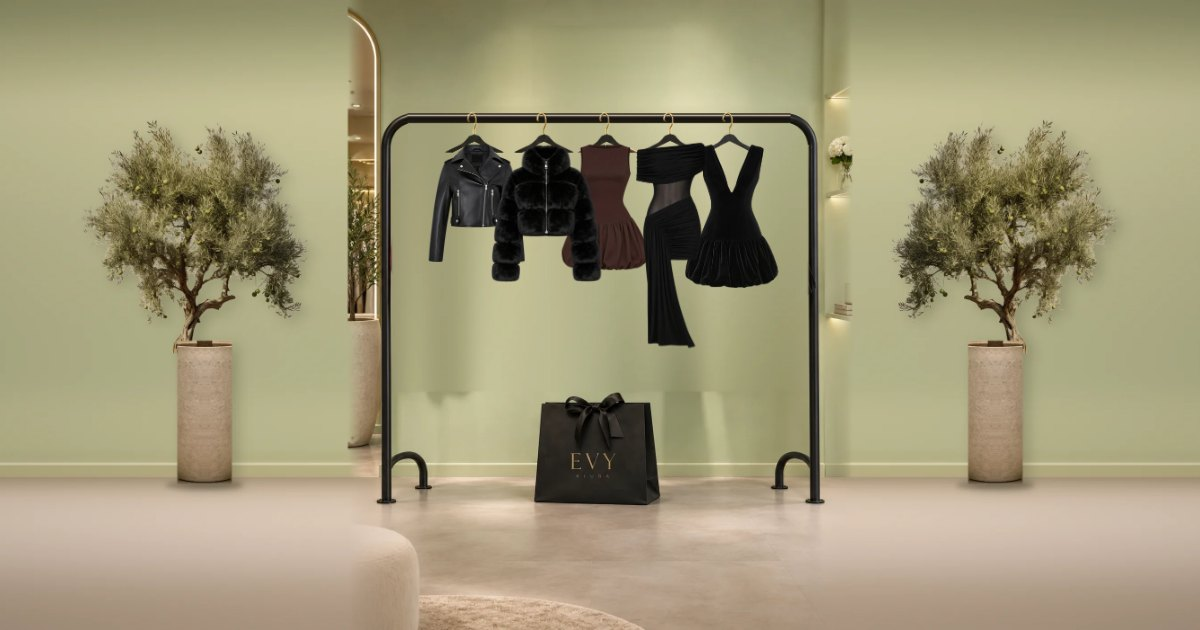
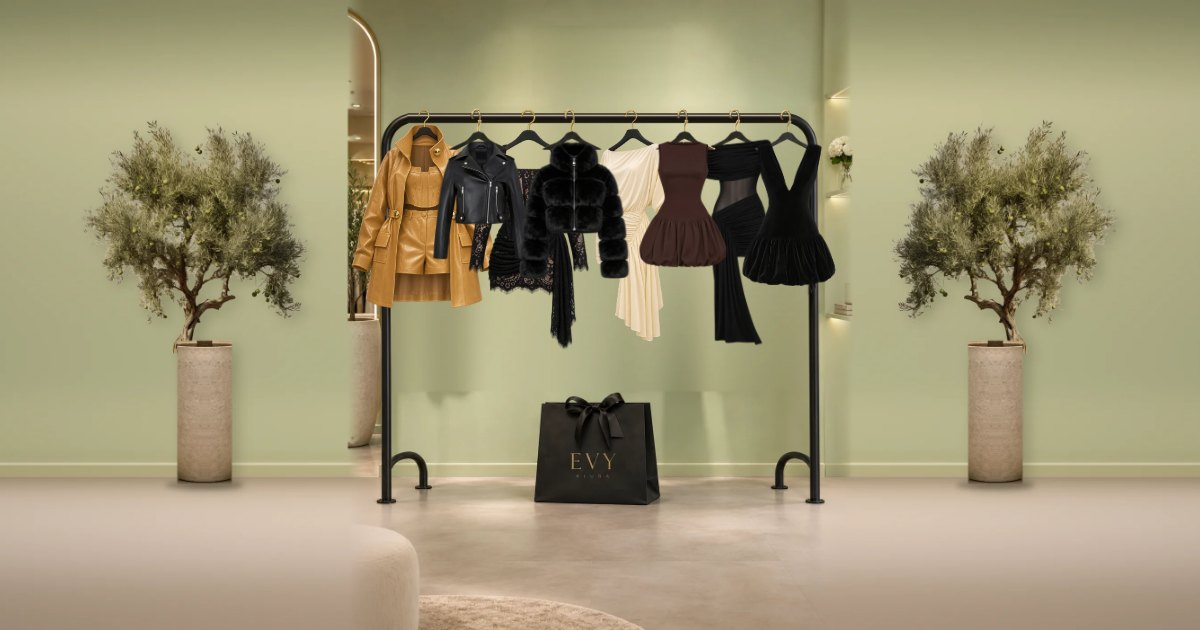
Vitrine EVY: três peças novas na arara e no acervo
- Conjunto caramelo com sobretudo, vestido de renda preta com drapeado e
  vestido creme drapeado assimétrico (fotos enviadas pela cliente, fundo
  transparente, com cabide preto e gancho dourado).
- Arara com 8 peças levemente sobrepostas; todas balançam e podem ser
  arrastadas até a sacola.
- Novas peças cadastradas no acervo (EVY-090 a EVY-092), valor e tamanho a confirmar.

Claude-Session: https://claude.ai/code/session_01JWzVUeVVFgoHDUGqF9rBry

Changed region(s): [[0.2775, 0.181, 0.7092, 0.573]]

diff --git a/js/acervo.js b/js/acervo.js
@@ -90,7 +90,10 @@ window.EVY_ACERVO=[
  {"id": "look-06", "name": "Vestido preto com recorte frontal", "kind": "Vestidos", "size": ["A confirmar"], "price": null, "color": "Preto", "photo": "assets/evy-looks/06-preto-recorte-frontal.png", "fit": "contain", "code": "EVY-086"},
  {"id": "look-07", "name": "Vestido marrom com saia estruturada", "kind": "Vestidos", "size": ["A confirmar"], "price": null, "color": "Marrom", "photo": "assets/evy-looks/07-marrom-estruturado-frontal.png", "fit": "contain", "code": "EVY-087"},
  {"id": "look-08", "name": "Vestido branco com decote em V", "kind": "Vestidos", "size": ["A confirmar"], "price": null, "color": "Branco", "photo": "assets/evy-looks/08-branco-decote-v-frontal.png", "fit": "contain", "code": "EVY-088"},
- {"id": "look-09", "name": "Vestido preto com saia balonê", "kind": "Vestidos", "size": ["A confirmar"], "price": null, "color": "Preto", "photo": "assets/evy-looks/09-preto-balone-frontal.png", "fit": "contain", "code": "EVY-089"}
+ {"id": "look-09", "name": "Vestido preto com saia balonê", "kind": "Vestidos", "size": ["A confirmar"], "price": null, "color": "Preto", "photo": "assets/evy-looks/09-preto-balone-frontal.png", "fit": "contain", "code": "EVY-089"},
+ {"id": "caramelo", "name": "Conjunto caramelo com sobretudo", "kind": "Conjuntos", "size": ["A confirmar"], "price": null, "color": "Caramelo", "photo": "assets/vitrine/novas/caramelo-frente.webp", "fit": "contain", "code": "EVY-090"},
+ {"id": "renda", "name": "Vestido de renda preta com drapeado", "kind": "Vestidos", "size": ["A confirmar"], "price": null, "color": "Preto", "photo": "assets/vitrine/novas/renda-frente.webp", "fit": "contain", "code": "EVY-091"},
+ {"id": "creme", "name": "Vestido creme drapeado assimétrico", "kind": "Vestidos", "size": ["A confirmar"], "price": null, "color": "Creme", "photo": "assets/vitrine/novas/creme-34.webp", "fit": "contain", "code": "EVY-092"}
 ];
 
 /* Vitrine: foto da boutique EVY separada em camadas.
@@ -105,10 +108,26 @@ window.EVY_VITRINE={
  "altura": 1402,
  "pecas": [
   {
-   "id": "biker",
+   "id": "caramelo",
+   "img": "assets/vitrine/novas/caramelo-frente.webp",
    "area": [
-    37.333,
-    16.833,
+    31.632,
+    17.404,
+    10.833,
+    31.384
+   ],
+   "pivo": [
+    49.2,
+    0.0
+   ],
+   "z": 2
+  },
+  {
+   "id": "biker",
+   "img": "assets/vitrine/camadas/biker.webp",
+   "area": [
+    37.597,
+    16.414,
     7.133,
     24.75
    ],
@@ -116,14 +135,29 @@ window.EVY_VITRINE={
     44.9,
     4.0
    ],
-   "img": "assets/vitrine/camadas/biker.webp",
+   "z": 3
+  },
+  {
+   "id": "renda",
+   "img": "assets/vitrine/novas/renda-frente.webp",
+   "area": [
+    40.273,
+    17.404,
+    8.867,
+    37.874
+   ],
+   "pivo": [
+    49.2,
+    0.0
+   ],
    "z": 2
   },
   {
    "id": "fur",
+   "img": "assets/vitrine/camadas/fur.webp",
    "area": [
-    41.9,
-    16.833,
+    43.959,
+    16.397,
     8.167,
     27.96
    ],
@@ -131,14 +165,29 @@ window.EVY_VITRINE={
     55.2,
     3.6
    ],
-   "img": "assets/vitrine/camadas/fur.webp",
    "z": 3
   },
   {
-   "id": "marrom",
+   "id": "creme",
+   "img": "assets/vitrine/novas/creme-34.webp",
    "area": [
-    47.167,
-    16.833,
+    49.207,
+    17.404,
+    6.733,
+    36.662
+   ],
+   "pivo": [
+    45.9,
+    0.0
+   ],
+   "z": 2
+  },
+  {
+   "id": "marrom",
+   "img": "assets/vitrine/camadas/marrom.webp",
+   "area": [
+    52.965,
+    16.414,
     6.467,
     26.034
    ],
@@ -146,14 +195,14 @@ window.EVY_VITRINE={
     49.0,
     3.8
    ],
-   "img": "assets/vitrine/camadas/marrom.webp",
-   "z": 2
+   "z": 3
   },
   {
    "id": "assimetrico",
+   "img": "assets/vitrine/camadas/assimetrico.webp",
    "area": [
-    52.633,
-    16.833,
+    57.539,
+    16.404,
     5.267,
     38.445
    ],
@@ -161,14 +210,14 @@ window.EVY_VITRINE={
     46.1,
     2.6
    ],
-   "img": "assets/vitrine/camadas/assimetrico.webp",
-   "z": 3
+   "z": 2
   },
   {
    "id": "balone",
+   "img": "assets/vitrine/camadas/balone.webp",
    "area": [
-    56.267,
-    16.833,
+    60.634,
+    16.477,
     6.867,
     28.959
    ],
@@ -176,8 +225,7 @@ window.EVY_VITRINE={
     46.1,
     3.2
    ],
-   "img": "assets/vitrine/camadas/balone.webp",
-   "z": 2
+   "z": 3
   }
  ],
  "sacola": [
